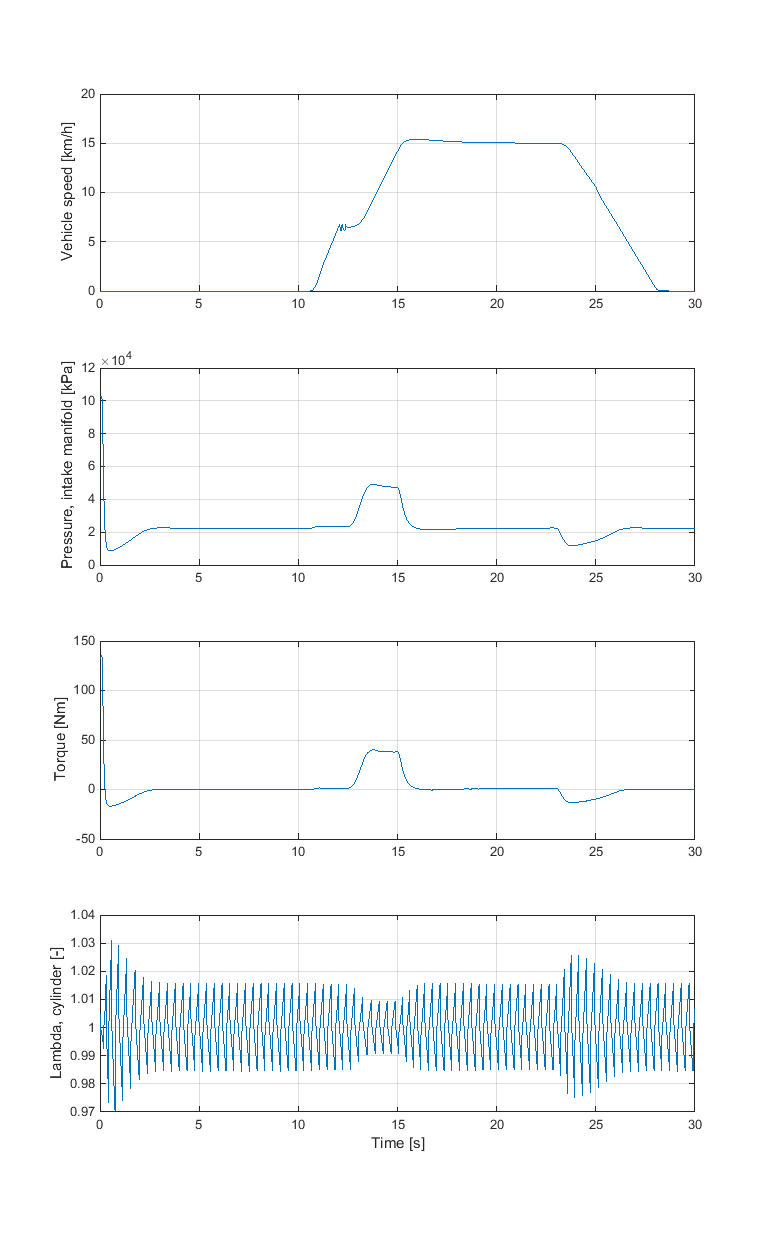
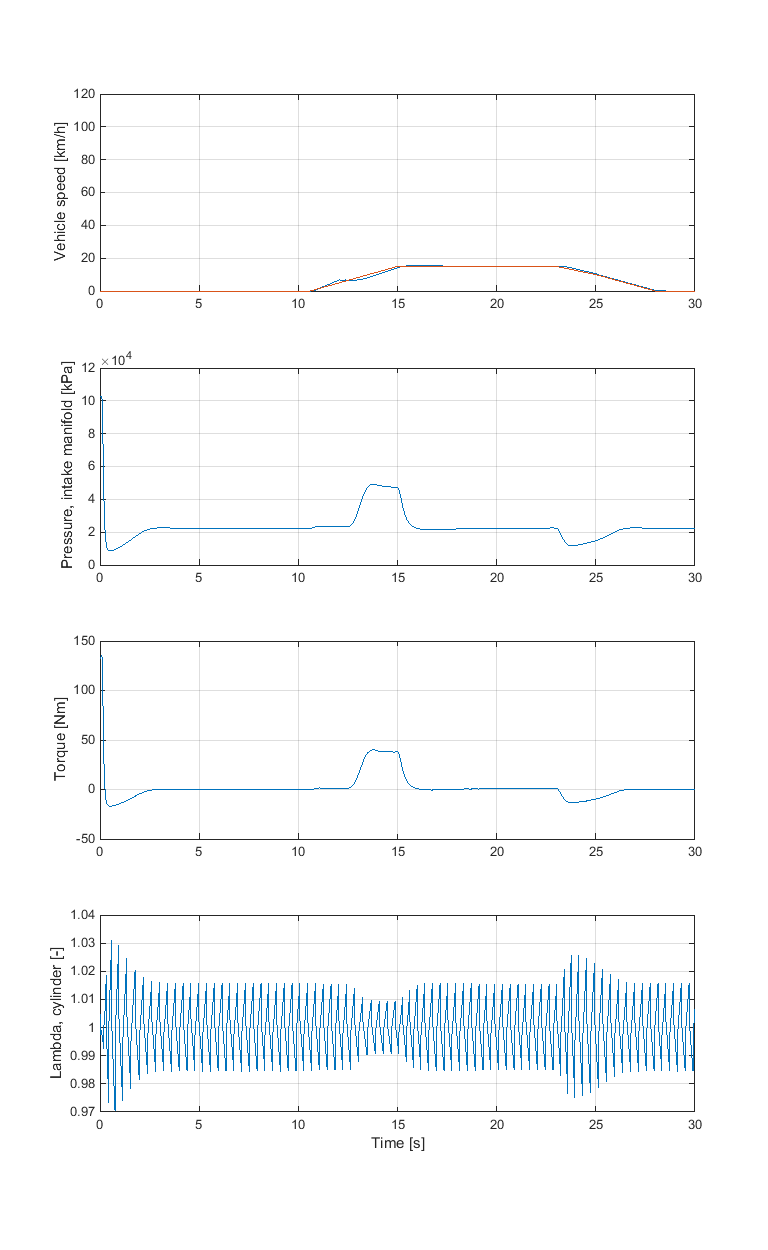
Modified drive_cycle_30/60

Changed region(s): [[0.0625, 0.0936, 0.125, 0.2184], [0.5312, 0.1872, 0.5625, 0.2184]]

diff --git a/1c/engine_sim.m b/1c/engine_sim.m
@@ -34,6 +34,10 @@ if doPlot
     figure(3)
     subplot(4,1,1)
     plot(t,VehicleSpeed)
+    hold on 
+    plot(T,S)
+    axis([0 30 -inf inf])
+    hold off
     
     grid on
     ylabel('Vehicle speed [km/h]')
@@ -64,6 +68,10 @@ if doPlot
     figure(3)
     subplot(4,1,1)
     plot(t,VehicleSpeed)
+    hold on 
+    plot(T,S)
+    axis([0 600 -inf inf])
+    hold off
     
     grid on
     ylabel('Vehicle speed [km/h]')
